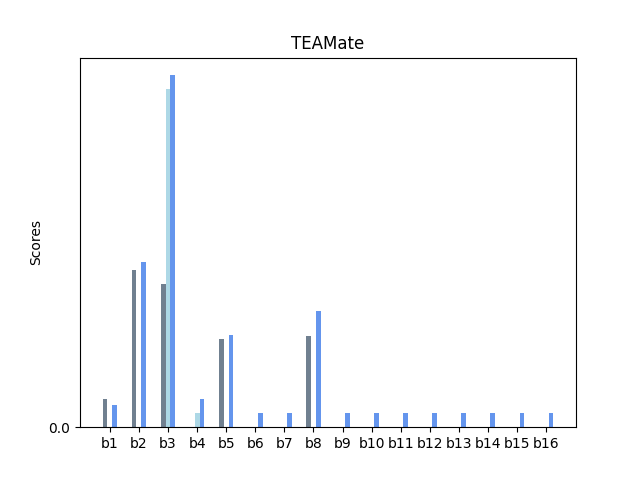
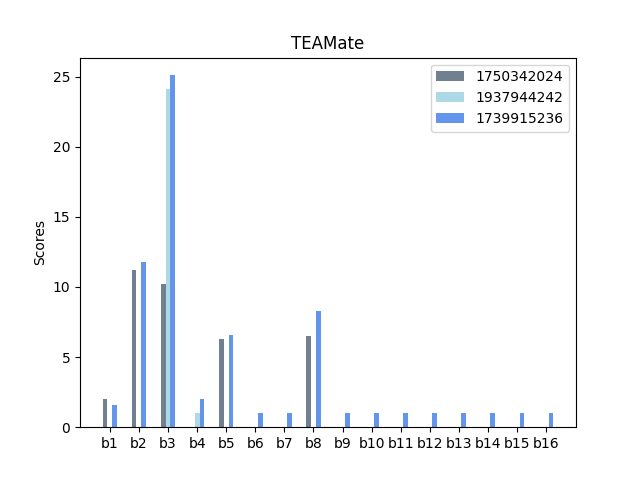
legend

diff --git a/Data_analysis/plot_trial_failure.py b/Data_analysis/plot_trial_failure.py
@@ -1,0 +1,189 @@
+
+import pickle
+import statistics
+import numpy as np
+import csv
+
+# Import packages
+import matplotlib as mpl
+import matplotlib.pyplot as plt
+import matplotlib.ticker as ticker
+import matplotlib.patches as mpatches
+import matplotlib.lines as mlines
+
+mpl.style.use('./aaai.mplstyle')
+
+def trial_ratio_and_failure_ratio(cols, failure_log_pec, failure_log_comp, subtitles, output=None):
+    
+    # Load pec data
+    failure_logs_pec_pkl = []
+    for file in failure_log_pec:
+        with open(file, "rb") as f:
+            failure_logs_pec_pkl.append(pickle.load(f))
+
+    # Load comp data
+    failure_logs_comp_pkl = []
+    for file in failure_log_comp:
+        with open(file, "rb") as f:
+            failure_logs_comp_pkl.append(pickle.load(f))
+
+    failure_logs = failure_logs_pec_pkl + failure_logs_comp_pkl
+    trial_ratios = np.zeros_like(failure_logs).tolist()
+    failure_ratios = np.zeros_like(failure_logs).tolist()
+
+    for i, log in enumerate(failure_logs):
+        tries = [v[1] for v in list(failure_logs[i].values())]
+        total_tries = sum(tries)
+        trial_ratios[i] = [f / total_tries for f in tries]
+
+        failures = [v[0] for v in list(failure_logs[i].values())]
+        failure_ratios[i] = [f / t for f, t in zip(failures, tries)]
+
+    avg_trial_ratio = [statistics.mean(trial_ratio) for trial_ratio in trial_ratios]
+    std_trial_ratio = [statistics.stdev(trial_ratio) for trial_ratio in trial_ratios]
+
+    avg_failure_ratio = [statistics.mean(failure_ratio) for failure_ratio in failure_ratios]
+    std_failure_ratio = [statistics.stdev(failure_ratio) for failure_ratio in failure_ratios]
+
+    #x = [f'({key})' for key in failure_logs[0].keys()]
+    x = [f'$c_{{{i}}}$' for i, value in enumerate(failure_logs[0].keys())]
+
+    fig, axes = plt.subplots(nrows=2, ncols=cols)
+    #fig.tight_layout(pad=6)
+    fig.set_size_inches((24, 8))
+    
+    ##legends = ['trial ratio (w/ pec)':'#6d904f', 'failure ratio (w/ pec)', ['trial ratio (w/o pec)', 'failure ratio (w/o pec)']]
+
+    #colors = {'fruit':'red', 'veggie':'green'}         
+    labels_with_pec = ['Trial Ratio (w/ PEC)', 'Failure Ratio (w/ PEC)']
+    labels_without_pec = ['Trial Ratio (w/o PEC)', 'Failure Ratio (w/o PEC)']
+    handles = [plt.Rectangle((0,0),1,1, color='#e5ae38'), mlines.Line2D([], [], color='#354885', marker='s', label='failure ratio (w/ pec)'), plt.Rectangle((0,0),1,1, color='#8b8b8b'), mlines.Line2D([], [], color='#810f7c', marker='s', label='failure ratio (w/ pec)')]
+
+    
+    for j in range(cols):
+        axes[0, j].set_title(f'Iterations: {subtitles[j]}')
+        axes[0, j].bar(x, trial_ratios[j], color='#e5ae38')
+        ax0_sub = axes[0, j].twinx()
+        ax0_sub.plot(x, failure_ratios[j], marker='s', color='#354885')
+        ax0_sub.set_ylim([0, 1])
+
+        if j == cols -1:
+            ax0_sub.set_ylabel('Failure Ratio')
+        else:
+            ax0_sub.get_yaxis().set_visible(False)
+        
+        #axes[0, j].set_xlabel('Coordination Sets')
+        if j == 0:
+            axes[0, j].set_ylabel('Trial Ratio')
+        else:
+            axes[0, j].get_yaxis().set_visible(False)
+
+        axes[0, j].set_ylim([0, 0.12])
+        axes[0, j].xaxis.set_major_locator(ticker.FixedLocator(range(len(x))))
+        axes[0, j].set_xticklabels(x, rotation=45, fontsize='small')
+        axes[0, j].get_shared_y_axes().join(axes[0, j], ax0_sub)
+        #axes[0, j].legend(handles[0], labels_with_pec)
+        
+        axes[1, j].bar(x, trial_ratios[j+cols], color='#8b8b8b')
+        ax1_sub = axes[1, j].twinx()
+        ax1_sub.plot(x, failure_ratios[j+cols], marker='s', color='#810f7c')
+        ax1_sub.set_ylim([0, 1])
+        if j == cols -1:
+            ax1_sub.set_ylabel('Failure Ratio')
+        else:
+            ax1_sub.get_yaxis().set_visible(False)
+        
+        axes[1, j].set_xlabel('Coordinates')
+        if j == 0:
+            axes[1, j].set_ylabel('Trial Ratio')
+        else:
+            axes[1, j].get_yaxis().set_visible(False)
+        axes[1, j].set_ylim([0, 0.12])
+        axes[1, j].xaxis.set_major_locator(ticker.FixedLocator(range(len(x))))
+        axes[1, j].set_xticklabels(x, rotation=45, fontsize='small')
+        axes[1, j].get_shared_y_axes().join(axes[1, j], ax1_sub) 
+        #axes[1, j].legend(handles[1], labels_without_pec)      
+
+    
+    #plt.suptitle("Trial Ratio and Failure Ratio")
+    fig.legend(handles, labels_with_pec + labels_without_pec, loc='lower center',bbox_to_anchor=(0.5, -0.07), ncol=4)
+    #plt.tight_layout()
+    #plt.legend(fontsize=12, loc='best')
+    # Show empty plot
+    if not output:
+        plt.show()
+    else:
+        plt.savefig(output, bbox_inches='tight')
+
+
+def trial_ratio_and_failure_ratio_alpha(failure_log_pec, title, subtitles, output=None):
+     # Load pec data
+    failure_logs_pec_pkl = []
+    cols = len(subtitles)
+    for file in failure_log_pec:
+        with open(file, "rb") as f:
+            failure_logs_pec_pkl.append(pickle.load(f))
+
+    failure_logs = failure_logs_pec_pkl 
+    trial_ratios = np.zeros_like(failure_logs).tolist()
+    failure_ratios = np.zeros_like(failure_logs).tolist()
+
+    for i, log in enumerate(failure_logs):
+        tries = [v[1] for v in list(failure_logs[i].values())]
+        total_tries = sum(tries)
+        trial_ratios[i] = [f / total_tries for f in tries]
+
+        failures = [v[0] for v in list(failure_logs[i].values())]
+        failure_ratios[i] = [f / t for f, t in zip(failures, tries)]
+
+    avg_trial_ratio = [statistics.mean(trial_ratio) for trial_ratio in trial_ratios]
+    std_trial_ratio = [statistics.stdev(trial_ratio) for trial_ratio in trial_ratios]
+
+    avg_failure_ratio = [statistics.mean(failure_ratio) for failure_ratio in failure_ratios]
+    std_failure_ratio = [statistics.stdev(failure_ratio) for failure_ratio in failure_ratios]
+
+    x = [f'$c_{{{i}}}$' for i, value in enumerate(failure_logs[0].keys())]
+
+    fig, axes = plt.subplots(nrows=1, ncols=cols)
+    #fig.tight_layout(pad=6)
+    fig.set_size_inches((24, 8))
+    
+    ##legends = ['trial ratio (w/ pec)':'#6d904f', 'failure ratio (w/ pec)', ['trial ratio (w/o pec)', 'failure ratio (w/o pec)']]
+
+    #colors = {'fruit':'red', 'veggie':'green'}         
+    labels_with_pec = ['Trial Ratio (w/ PEC)', 'Failure Ratio (w/ PEC)']
+    handles = [plt.Rectangle((0,0),1,1, color='#e5ae38'), mlines.Line2D([], [], color='#354885', marker='s', label='Failure Ratio (w/ PEC)')]
+    
+    for j in range(cols):
+        axes[j].set_title(f'Iterations: {subtitles[j]}', fontsize='small')
+        axes[j].bar(x, trial_ratios[j], color='#e5ae38')
+        ax0_sub = axes[j].twinx()
+        ax0_sub.plot(x, failure_ratios[j], marker='s', color='#354885')
+        ax0_sub.set_ylim([0, 1])
+        if j == cols -1:
+            ax0_sub.set_ylabel('Failure Ratio')
+        else:
+            ax0_sub.get_yaxis().set_visible(False)
+            
+        #axes[0, j].set_xlabel('Coordination Sets')
+        if j == 0:
+            axes[j].set_ylabel('Trial Ratio')
+        else:
+            axes[j].get_yaxis().set_visible(False)
+
+        axes[j].set_ylim([0, 0.15])
+        axes[j].xaxis.set_major_locator(ticker.FixedLocator(range(len(x))))
+        axes[j].set_xticklabels(x, rotation=45, fontsize='small')
+        axes[j].get_shared_y_axes().join(axes[j], ax0_sub)
+        
+    
+    #plt.suptitle(title)
+    fig.legend(handles, labels_with_pec, loc='lower center',bbox_to_anchor=(0.5, -0.07), ncol=4)
+    #plt.tight_layout()
+    #plt.legend(fontsize=12, loc='best')
+    # Show empty plot
+    if not output:
+        plt.show()
+    else:
+        plt.savefig(output, bbox_inches='tight')
+

diff --git a/Data_analysis/TM_grade.py b/Data_analysis/TM_grade.py
@@ -1,3 +1,7 @@
+import matplotlib.pyplot as plt
+import numpy as np
+import pandas as pd
+import TM_analysis_function as TM
 def grade(name_score, contri, result) :
     parti = name_score
     min_parti = sum(list(name_score.values()))*1/(len(name_score)*2)    ##참여도 최솟값
@@ -13,4 +17,55 @@ def grade(name_score, contri, result) :
             result_grade[i] = 0
     
     return result_grade
+def print_graph(score, group_id):
+    label_name=[]
+    
+    key_ = score[0].keys()
+    #value_ = []
+    
+    for i in range(len(score)) :
+        label_name.append('b'+ str(i+1))
+    #label 이름 설정
+    
+    # x = np.arange(divi)
+    x = [1]
+    for i in range(1, len(key_)):
+        x.append(TM.double_plus(x[0] , 0.5*i))
+    
+    
+    # block에 따라 score 출력
+    # x축: 블록
+    # y축: 점수   
+    width = 0.5
+    c = ['slategrey', 'lightblue', 'cornflowerblue', 'royalblue', 'slateblue']
+    fig, ax = plt.subplots()
+    for idx, i in enumerate(score):
+        data = list(i.values())
+        name_g = list(i.keys())
+        if idx == 0 :
+            for idx2, j in enumerate(data) :
+                rects1 = ax.bar(x[idx2], j, width, color=c[idx2], label = str(name_g[idx2]))
+            for k in range(0, len(key_)):
+                x[k] += 3
+            continue
+        rects1 = ax.bar(x, data, width, color=c)
+        #for idx, item in enumerate(data):
+            
+        for k in range(0, len(key_)):
+            x[k] += 3
+    
+    plt.legend((key_))
+    x_l = []
+    x_l.append(int(len(key_)/2)+0.5)
+    for i in range(len(score)-1):
+        x_l.append(x_l[0] + 3*(i+1))
 
+    plt.xticks(x_l, labels=label_name)
+    ax.set_ylabel('Scores')
+    ax.set_title('TEAMate')
+    #plt.show()
+    save_name = group_id
+    plt.savefig('print_graph' + str(group_id))
+
+score = [{1750342024: 2.0, 1937944242: 0.0, 1739915236: 1.6}, {1750342024: 11.2, 1937944242: 0, 1739915236: 11.8}, {1750342024: 10.2, 1937944242: 24.1, 1739915236: 25.1}, {1750342024: 0, 1937944242: 1.0, 1739915236: 2.0}, {1750342024: 6.3, 1937944242: 0, 1739915236: 6.6}, {1750342024: 0, 1937944242: 0, 1739915236: 1.0}, {1750342024: 0, 1937944242: 0, 1739915236: 1.0}, {1750342024: 6.5, 1937944242: 0, 1739915236: 8.3}, {1750342024: 0, 1937944242: 0, 1739915236: 1.0}, {1750342024: 0, 1937944242: 0, 1739915236: 1.0}, {1750342024: 0, 1937944242: 0, 1739915236: 1.0}, {1750342024: 0, 1937944242: 0, 1739915236: 1.0}, {1750342024: 0, 1937944242: 0, 1739915236: 1.0}, {1750342024: 0, 1937944242: 0, 1739915236: 1.0}, {1750342024: 0, 1937944242: 0, 1739915236: 1.0}, {1750342024: 0, 1937944242: 0, 1739915236: 1.0}]
+print_graph(score, -472653938)

diff --git a/TEAMatebot_Prof/scoreCheck_handler.py b/TEAMatebot_Prof/scoreCheck_handler.py
@@ -143,7 +143,7 @@ class scoreCheckHandler():
             for k in range(0, len(key_)):
                 x[k] += 3
         
-        
+        plt.legend((key_))
         x_l = []
         x_l.append(int(len(key_)/2)+0.5)
         for i in range(len(score)-1):

diff --git a/Data_analysis/TM_analysis_function.py b/Data_analysis/TM_analysis_function.py
@@ -156,4 +156,3 @@ def main(group):
     result_score.append(name_score)
     print(result_score)
     return result_score
-
